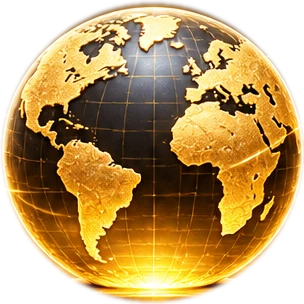
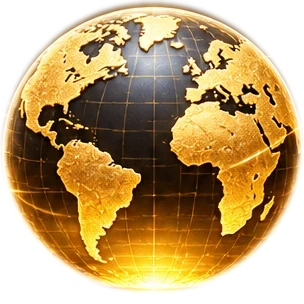
Add files via upload

diff --git a/index.html b/index.html
@@ -1,46 +1,58 @@
-<!doctype html>
+<!DOCTYPE html>
 <html lang="en">
 <head>
 <meta charset="UTF-8">
 <meta name="viewport" content="width=device-width,initial-scale=1,viewport-fit=cover">
-<meta name="theme-color" content="#0b0907">
-<meta name="description" content="GOLD GLOBE — global gold spot value by weight in USD.">
+<meta name="theme-color" content="#100a05">
+<meta name="description" content="GOLD GLOBE — global gold spot reference values by weight in USD.">
+<meta property="og:type" content="website">
+<meta property="og:title" content="GOLD GLOBE | World Gold">
+<meta property="og:description" content="Explore the global gold spot value by weight.">
 <title>GOLD GLOBE | World Gold</title>
 <style>
-:root{--gold:#f8d887;--apple:#cafa70;--muted:#bfaf91}
-*{box-sizing:border-box}html{background:#090807}
-body{margin:0;min-height:100vh;color:#fff7dc;text-align:center;font:15px -apple-system,BlinkMacSystemFont,"Segoe UI",Arial,sans-serif;background:radial-gradient(ellipse 95% 38% at 50% 0%,#4b2b08 0%,#211307 48%,#0c0907 92%)}
-main{width:min(100%,510px);margin:auto;padding:20px 12px 34px}
-h1{font:800 clamp(25px,7vw,34px) Georgia,serif;letter-spacing:.13em;color:#ffdb84;margin:12px 0 5px;text-shadow:0 2px 17px #e4a54470}.subhead{font-size:11px;letter-spacing:.38em;color:#dfc38d;margin-bottom:19px}
-.panel{padding:21px 15px 0;border-radius:29px;border:1px solid #d8a74485;background:radial-gradient(ellipse at top,#463016 0%,#24180e 38%,#100e0b 92%);box-shadow:0 18px 50px #000b,inset 0 1px 0 #ffe7a533;overflow:hidden;position:relative}
-.eyebrow{letter-spacing:.21em;color:#edc87a;font-size:11px;margin-bottom:17px}
-.goldbar{position:relative;width:min(255px,84%);height:125px;margin:0 auto 21px;border:2px solid #ffe6a0;border-radius:23px 23px 29px 29px;background:linear-gradient(135deg,#fff5c4,#f6c55c 35%,#c18120 75%,#8b5312);color:#69410b;box-shadow:inset 0 4px 9px #fff5cf,inset -9px -14px 15px #7a470b88,0 17px 28px #0008,0 0 45px #e4a32844;display:flex;flex-direction:column;align-items:center;justify-content:center;animation:float 7s ease-in-out infinite}
-.goldbar:before{content:"";position:absolute;inset:10px 15px;border:1px solid #a46b2055;border-radius:16px}.goldbar small{font-weight:800;font-size:10px;letter-spacing:.21em}.goldbar strong{font-size:37px;margin:6px 0}.goldbar>*{position:relative}
-@keyframes float{50%{transform:translateY(-8px) rotateY(7deg)}}
-.caption{color:#edcc87;letter-spacing:.19em;font-size:11px}.price{font-size:clamp(35px,9vw,50px);font-weight:900;margin:11px 0 7px;font-variant-numeric:tabular-nums;overflow-wrap:anywhere;color:#fff3c7}.unit{font-size:12px;color:#e0cda7}.status{color:#b9aa90;font-size:11px;margin:11px 0 0;line-height:1.6}
-.weights{display:grid;grid-template-columns:repeat(3,minmax(0,1fr));gap:8px;margin:22px 0 15px}.weights button{min-height:48px;padding:9px 2px;border:1px solid #ae7c3688;border-radius:12px;background:linear-gradient(#2b2015,#18120d);color:#f9ddb0;font-weight:800;font-size:13px;cursor:pointer}.weights button[aria-pressed=true]{background:linear-gradient(#fff0b4,#e3ab41);border-color:#ffdf88;color:#50320b;box-shadow:0 0 15px #dc9e3d66}
-.world{height:245px;position:relative;margin:8px -15px 0;display:grid;place-items:center;isolation:isolate}.world:before{content:"";position:absolute;inset:0;background:radial-gradient(ellipse at 50% 65%,#e3a83d44,transparent 55%);z-index:-2}
-.mountains{position:absolute;bottom:0;left:0;width:100%;height:158px;object-fit:cover;object-position:bottom;opacity:.92;z-index:-1;pointer-events:none}
-.sphere{width:174px;height:174px;position:relative;perspective:600px;filter:drop-shadow(0 0 22px #f8b83a6b)}
-.sphere img{display:block;width:100%;height:100%;object-fit:contain;animation:slowturn 35s ease-in-out infinite alternate}
-.sphere:after{content:"";position:absolute;inset:0;border-radius:50%;pointer-events:none;background:linear-gradient(90deg,#0000 40%,#0005 100%);animation:shine 35s ease-in-out infinite alternate}
-@keyframes slowturn{from{transform:rotateY(-13deg)}to{transform:rotateY(13deg)}}@keyframes shine{to{transform:scaleX(-1)}}
-.share{display:block;width:100%;margin:17px auto 0;min-height:58px;background:linear-gradient(180deg,#deff9b,#b9ec50);color:#1b2c08;border:0;border-radius:18px;font-size:18px;font-weight:900;cursor:pointer;box-shadow:0 8px 25px #b9ee4a44}
-footer{font-size:10px;line-height:1.9;margin-top:15px;color:#a69a84}
-@media(prefers-reduced-motion:reduce){.goldbar,.sphere img,.sphere:after{animation:none}}
+:root{--gold:#f4d68d;--apple:#cafa6d}
+*{box-sizing:border-box}html{background:#100a05}
+body{margin:0;min-height:100vh;color:#fff2d5;text-align:center;font:15px -apple-system,BlinkMacSystemFont,"Segoe UI",Arial,sans-serif;background:radial-gradient(ellipse at 50% 0%,#5b350f 0%,#211207 37%,#0b0907 85%)}
+main{max-width:520px;margin:0 auto;padding:22px 12px 38px}
+h1{margin:7px 0 4px;color:var(--gold);font:800 clamp(29px,7vw,39px) Georgia,serif;letter-spacing:.12em;text-shadow:0 0 20px #ffd36765}
+.subhead{font-size:11px;letter-spacing:.36em;color:#e7c88e;margin-bottom:20px}
+.panel{position:relative;overflow:hidden;padding:20px 12px 0;border:1px solid #e2af5a90;border-radius:30px;background:radial-gradient(ellipse at 50% 2%,#493017 0%,#26170d 38%,#0e0b08 85%);box-shadow:0 16px 50px #0009,inset 0 1px #fff7c52e}
+.eyebrow{font-size:11px;letter-spacing:.18em;color:#efd191;margin-bottom:7px}
+.bar-stage{width:min(100%,410px);aspect-ratio:775/275;position:relative;margin:0 auto 1px;animation:float 7s ease-in-out infinite;filter:drop-shadow(0 12px 17px #0008)}
+.bar-stage img{width:100%;height:100%;object-fit:contain;display:block}
+.bar-weight{position:absolute;left:50%;top:39%;transform:translate(-50%,-50%);font:bold clamp(22px,7vw,42px) Georgia,serif;color:#6a3707;text-shadow:0 1px 1px #ffe8a7;white-space:nowrap;pointer-events:none}
+@keyframes float{50%{transform:translateY(-5px)}}
+.caption{color:#efcd87;font-size:11px;letter-spacing:.2em}
+.price{font-size:clamp(36px,9vw,53px);font-weight:900;line-height:1.12;margin:12px 0 7px;color:#fff3c7;font-variant-numeric:tabular-nums;overflow-wrap:anywhere;text-shadow:0 0 17px #d89f3b44}
+.unit{font-size:12px;color:#e7cc9f}.status{font-size:11px;color:#bdaf93;margin:12px 0 0;line-height:1.65}
+.weights{display:grid;grid-template-columns:repeat(3,minmax(0,1fr));gap:8px;margin:22px 1px 10px}
+.weights button{height:47px;border:1px solid #b3844380;border-radius:13px;background:linear-gradient(#2d2116,#17110d);color:#fce2b1;font-size:13px;font-weight:850;cursor:pointer}
+.weights button[aria-pressed=true]{background:linear-gradient(#fff2ba,#d8a13a);border-color:#ffe19a;color:#4d300a;box-shadow:0 0 12px #f1b84c65}
+.world-scene{height:260px;position:relative;margin:8px -12px 0;isolation:isolate;overflow:hidden;background:radial-gradient(ellipse 47% 43% at 50% 68%,#e9a53435,transparent)}
+.mountains{position:absolute;left:0;bottom:0;width:100%;height:176px;object-fit:fill;pointer-events:none;z-index:1}
+.globe{position:absolute;width:min(57%,220px);aspect-ratio:1;left:50%;bottom:17px;transform:translateX(-50%);z-index:2;filter:drop-shadow(0 0 22px #f9ba4277)}
+.globe img{width:100%;display:block;animation:turn 48s ease-in-out infinite;transform-origin:center}
+@keyframes turn{0%,100%{transform:perspective(450px) rotateY(-13deg)}50%{transform:perspective(450px) rotateY(13deg)}}
+.world-scene:after{content:"";position:absolute;bottom:0;left:0;right:0;height:38px;background:linear-gradient(transparent,#110b07a6);z-index:3;pointer-events:none}
+.share{display:block;width:100%;height:58px;border:0;margin:18px auto 0;border-radius:18px;background:linear-gradient(#e4ffa9,#b7ec4b);color:#203108;font-size:18px;font-weight:900;box-shadow:0 9px 24px #b0e74b3c;cursor:pointer}
+.share:active{transform:scale(.99)}footer{font-size:10px;color:#b8a98f;line-height:1.9;margin-top:16px}
+@media(max-width:390px){.bar-weight{top:40%;font-size:24px}.world-scene{height:215px}.mountains{height:146px}.globe{width:58%;bottom:13px}}
+@media(prefers-reduced-motion:reduce){.bar-stage,.globe img{animation:none}}
 </style>
 </head>
 <body><main>
 <h1>GOLD GLOBE</h1><div class="subhead">WORLD GOLD</div>
 <section class="panel">
 <div class="eyebrow">✦ LUXURY GOLD VIEW ✦</div>
-<div class="goldbar"><small>FINE GOLD</small><strong id="barWeight">1 kg</strong><small>999.9 · 24K GOLD</small></div>
-<div class="caption">GLOBAL GOLD PRICE</div><div class="price" id="price">—</div>
-<div class="unit" id="unit">USD / 1 kg · 24K</div><div class="status" id="status" role="status">Loading price…</div>
+<div class="bar-stage"><img src="gold-bar.webp" alt="Fine gold bullion bar"><span class="bar-weight" id="barWeight">1 kg</span></div>
+<div class="caption">GLOBAL GOLD PRICE</div>
+<div class="price" id="price">—</div>
+<div class="unit" id="unit">USD / 1 kg · 24K</div>
+<div class="status" id="status" role="status">Loading gold price…</div>
 <div class="weights" id="weights"></div>
-<div class="world">
+<div class="world-scene" aria-label="Gold globe above mountains of gold">
 <img class="mountains" src="gold-mountains.webp" alt="" aria-hidden="true">
-<div class="sphere"><img src="globe.webp" alt="Golden globe"></div>
+<div class="globe"><img src="globe.webp" alt="Slowly moving golden world globe"></div>
 </div>
 </section>
 <button class="share" id="share">↗ SHARE GOLD</button>
@@ -51,8 +63,8 @@ const OUNCE=31.1034768;
 const sizes=[['1 kg',1000],['500 g',500],['250 g',250],['100 g',100],['50 g',50],['20 g',20],['10 g',10],['5 g',5],['1 g',1],['Ounce',OUNCE]];
 let spot=null,grams=1000,chosen='1 kg';
 const el=id=>document.getElementById(id);
-function dollars(n){return new Intl.NumberFormat('en-US',{style:'currency',currency:'USD',minimumFractionDigits:2,maximumFractionDigits:2}).format(n)}
-for(const [name,weight] of sizes){const b=document.createElement('button');b.textContent=name;b.dataset.name=name;b.onclick=()=>{chosen=name;grams=weight;render()};el('weights').appendChild(b)}
+const dollars=n=>new Intl.NumberFormat('en-US',{style:'currency',currency:'USD',minimumFractionDigits:2,maximumFractionDigits:2}).format(n);
+for(const [name,weight] of sizes){const b=document.createElement('button');b.textContent=name;b.dataset.name=name;b.onclick=()=>{grams=weight;chosen=name;render()};el('weights').appendChild(b)}
 function render(){el('barWeight').textContent=chosen;el('unit').textContent=chosen==='Ounce'?'USD / TROY OUNCE':'USD / '+chosen+' · 24K';el('price').textContent=spot===null?'—':dollars(spot*grams/OUNCE);for(const b of el('weights').children)b.setAttribute('aria-pressed',String(b.dataset.name===chosen))}
 async function load(){try{const r=await fetch('https://api.gold-api.com/price/XAU',{cache:'no-store'});if(!r.ok)throw Error('API');const d=await r.json();const n=Number(d.price);if(!Number.isFinite(n)||n<=0)throw Error('price');spot=n;const dt=d.updatedAt?new Date(d.updatedAt):null;el('status').textContent=dt&&!isNaN(dt)?'Updated: '+dt.toLocaleString('en-GB',{dateStyle:'medium',timeStyle:'short',timeZone:'UTC'})+' UTC':'Latest available price';render()}catch{spot=null;el('status').textContent='Price unavailable · Refresh to retry';render()}}
 el('share').onclick=async()=>{const url=location.href.split('?')[0],txt='✨ GOLD GLOBE'+(spot===null?'':'\n'+chosen+': '+dollars(spot*grams/OUNCE));try{if(navigator.share){await navigator.share({title:'GOLD GLOBE',text:txt,url});return}}catch(e){if(e.name==='AbortError')return}window.open('https://wa.me/?text='+encodeURIComponent(txt+'\n'+url),'_blank','noopener')};
